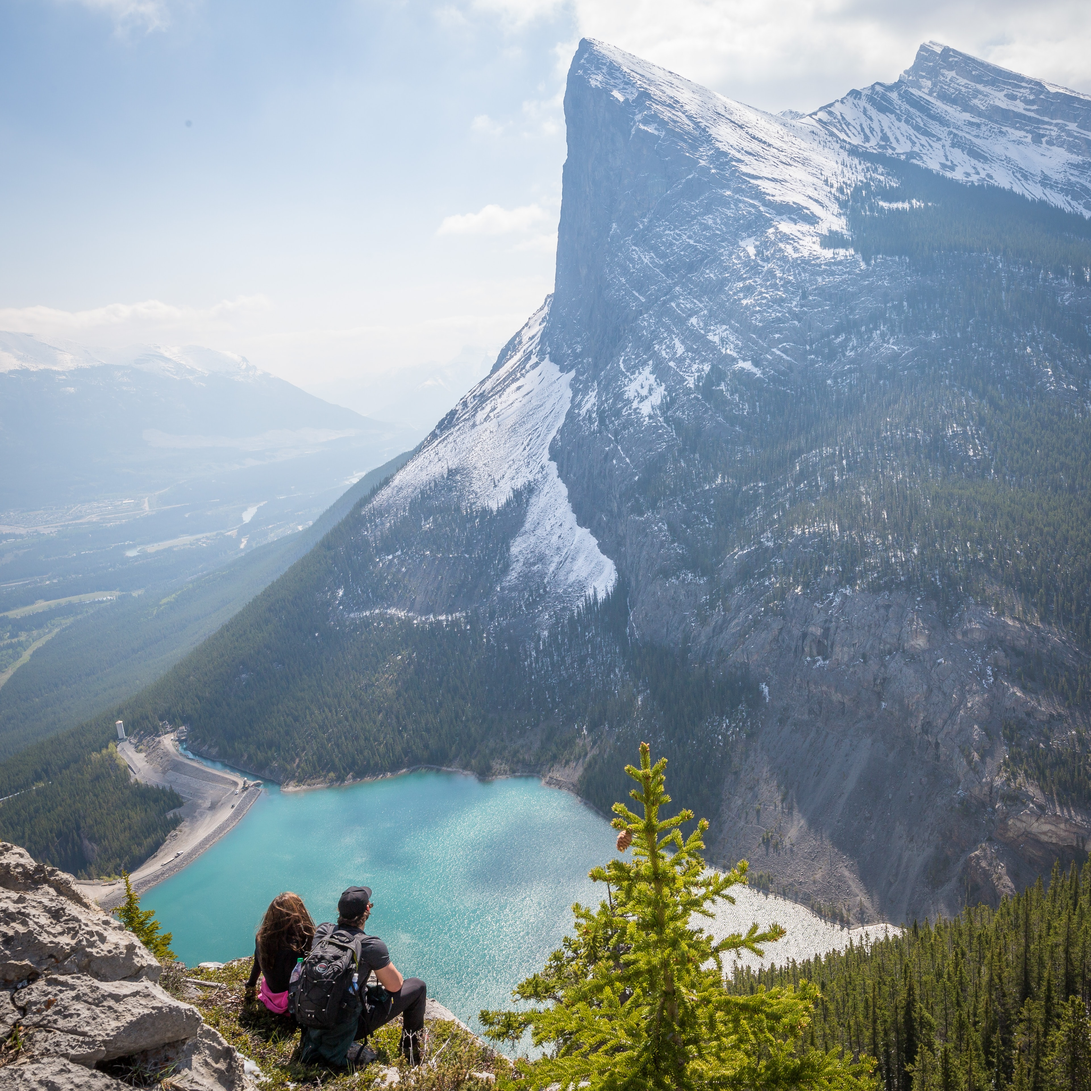
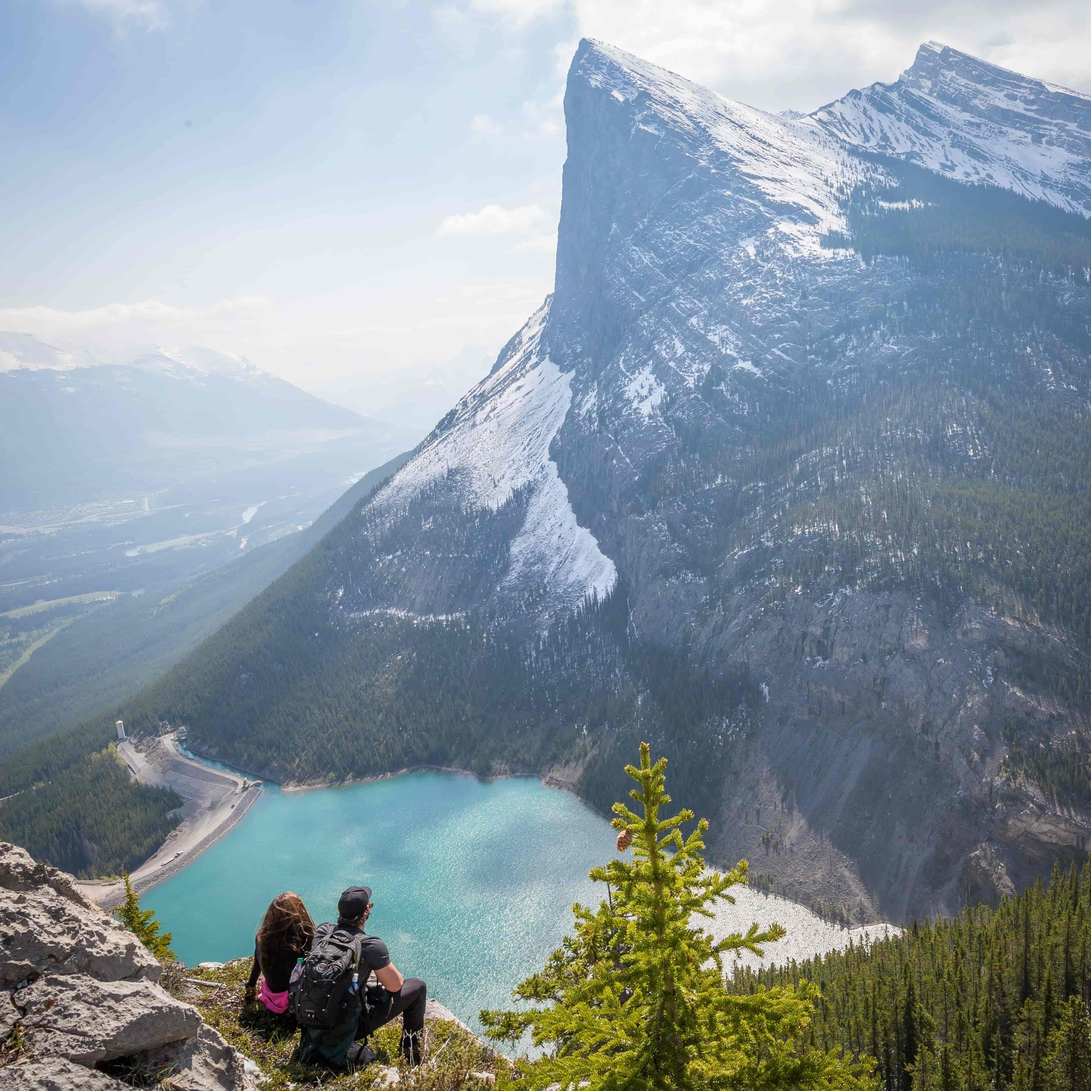
styled the cards/posts and also compressed the image sizes so they are all under 500kb

diff --git a/my-app/src/Post.js b/my-app/src/Post.js
@@ -1,12 +1,24 @@
 import React from 'react';
+import {
+    Card, CardImg, CardBody,
+    CardTitle, CardSubtitle
+  } from 'reactstrap';
+import style from 'styled-components';
+
+const StyledDiv = style.div`
+  padding: 1%;
+`;
 
 export default function Post({user}){
     return(
-        <section>
-            
-            <img src={user.picture} alt='alt' width='400px' />
-            <div>{user.first_name} {user.last_name}</div>
-            <div>{user.bio}</div>
-        </section>
+        <StyledDiv>
+            <Card>
+                <div className='image'><CardImg src={user.picture} alt='Journal entry'/></div>
+                <CardBody>
+                <CardTitle><div className='card-title'>Name: {user.first_name} {user.last_name}</div></CardTitle>
+                <CardSubtitle><div className='card-subtitle'>{user.bio}</div></CardSubtitle>
+                </CardBody>
+            </Card>
+        </StyledDiv>
     )
 }

diff --git a/my-app/src/Explore.js b/my-app/src/Explore.js
@@ -47,7 +47,7 @@ export default function Explore(){
     }, [])
 
     return(
-        <div>
+        <div className='cards-container'>
             {posts.map(post => {
                 return <Post key={post.id} user={post} />
             })}
